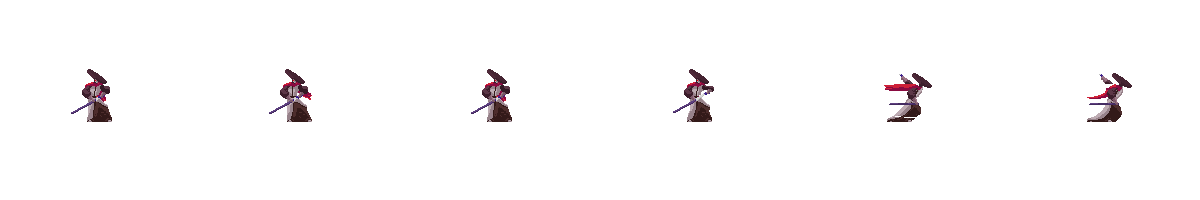
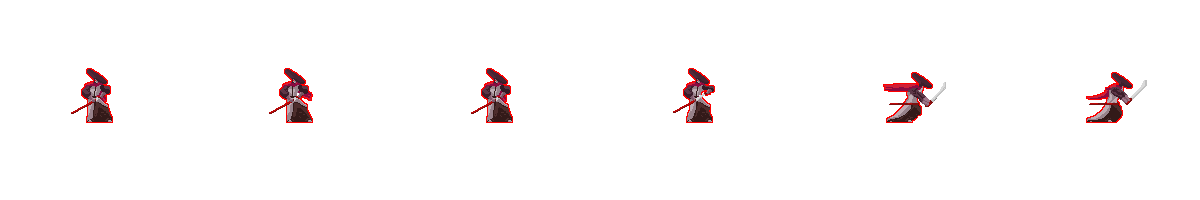
fixed blocking

diff --git a/public/main.js b/public/main.js
@@ -55,7 +55,10 @@ loadSprite("attack-player1", "assets/attack-player1.png", {
     sliceX: 6, sliceY: 1, anims: { "attack": { from: 1, to: 5, speed: 18}}
 });
 loadSprite("block-player1", "assets/block-player1.png", {
-    sliceX: 6, sliceY: 1, anims: { "block": { from: 1, to: 5, speed: 18}}
+    sliceX: 6, sliceY: 1, anims: { "block": { from: 1, to: 4, speed: 18}}
+});
+loadSprite("holdblock-player1", "assets/block-player1.png", {
+    sliceX: 6, sliceY: 1, anims: { "holdblock": { from: 4, to: 5, speed: 10, loop:true}}
 });
 loadSprite("run-player1", "assets/run-player1.png", {
     sliceX: 8, sliceY: 1, anims: { "run": { from: 0, to: 7, speed: 18}}
@@ -75,7 +78,10 @@ loadSprite("attack-player2", "assets/attack-player2.png", {
     sliceX: 6, sliceY: 1, anims: { "attack": { from: 1, to: 5, speed: 18}}
 });
 loadSprite("block-player2", "assets/block-player2.png", {
-    sliceX: 6, sliceY: 1, anims: { "block": { from: 1, to: 5, speed: 18}}
+    sliceX: 6, sliceY: 1, anims: { "block": { from: 1, to: 4, speed: 18}}
+});
+loadSprite("holdblock-player2", "assets/block-player2.png", {
+    sliceX: 6, sliceY: 1, anims: { "holdblock": { from: 4, to: 5, speed: 10, loop:true}}
 });
 loadSprite("run-player2", "assets/run-player2.png", {
     sliceX: 8, sliceY: 1, anims: { "run": { from: 0, to: 7, speed: 18}}
@@ -182,7 +188,7 @@ scene ("ready_up", () => {
     
     function getGameURL() {
         //CHANGE THIS IP
-        return fetch(`http://192.168.1.27/newgame`)
+        return fetch(`http://192.168.1.27:8080/newgame`)
         .then(response => response.ok ? response.json() : Promise.reject('Response not OK'))
         .then(data => {
             console.log("game id: " + data.url);
@@ -203,7 +209,7 @@ scene ("ready_up", () => {
             //let r_counter = 0;
             
             //CHANGE THIS IP
-            socket = io.connect(`http://192.168.1.27/`, {
+            socket = io.connect(`http://192.168.1.27:8080/`, {
                 withCredentials: true,
                 query: { game_id: game_id }
             });
@@ -425,6 +431,7 @@ scene("fight", () => {
                     idle: "idle-" + id,
                     jump: "jump-" + id,
                     block: "block-" + id,
+                    holdblock: "holdblock-" + id,
                     attack: "attack-" + id,
                     death: "death-" + id
                 }
@@ -466,8 +473,6 @@ scene("fight", () => {
             player2.flipX = true;
             //console.log("p1 on left, p2 on right");
         }
-
-        
 
         player1flip = player1.flipX;
         player2flip = player2.flipX;
@@ -582,12 +587,9 @@ scene("fight", () => {
                     console.log("p2 not attacking");
                     p2_is_attacking = false;
                 }
-            });
-               
+                });
             });
             
-                
-                
             player.play("attack", {
                 onEnd: () => {
                     
@@ -619,10 +621,18 @@ scene("fight", () => {
                     }); 
             player.play("block", {
                 onEnd: () => {
-                    resetPlayerToIdle(player);
-                    player.flipX = currentFlip;
-                }
-            }) 
+                    if (myPlayerNumber === 1 && p1_is_blocking) {
+                        player.use(sprite(player.sprites.holdblock))
+                        player.flipX = currentFlip;
+                        player.play("holdblock", {
+                            onEnd: () => {
+                                resetPlayerToIdle(player);
+                                player.flipX = currentFlip;
+                            }
+                        }); 
+                    }
+                } // wtf is this
+            }); 
         }
     }
 
@@ -643,7 +653,6 @@ scene("fight", () => {
     onKeyRelease("a", () => {
         socket.emit('release', { game_id: game_id, direction: 'left' });
     });
-
 
     // jump
     onKeyDown("w", () => {
@@ -667,7 +676,6 @@ scene("fight", () => {
         socket.emit('move', { game_id: game_id, direction: 'attack' });  
     });
     
-
    
     //state control
     socket.on('state', (data) => {
@@ -763,13 +771,13 @@ scene("fight", () => {
         }
         //block
         if (data.playerNumber === 1 && data.direction === 'block') {
-            if (!p1_is_attacking){
+            if (!p1_is_attacking && !p1_is_blocking){
                 block(player1);
                 console.log("player1 started blocking");
             }
         }
         if (data.playerNumber === 2 && data.direction === 'block') {
-            if (!p2_is_attacking){
+            if (!p2_is_attacking && !p2_is_blocking){
                 block(player2);
                 console.log("player2 started blocking");
             }
@@ -862,7 +870,6 @@ scene("fight", () => {
         wait (3 , () => {
             console.log(gamecounter);
             gamecounter+=1;
-            
             if (gamecounter > 2) {
                 go("end");
                 console.log("going back to start");
@@ -872,7 +879,7 @@ scene("fight", () => {
                 console.log(gamecounter);
                 go("fight");
             }
-        })
+        });
     }
 
     const countInterval = setInterval(() => {
@@ -918,25 +925,19 @@ scene("fight", () => {
     ]);
 
 
-
-
     player1.onCollide(player2.id + "attackHitbox", () => {
         if (gameOver) {
             return;
         }
         console.log("did p1 block: " + p1_is_blocking);
-        
         if (player1.health !== 0) {
             socket.emit('gamestate', { game_id: game_id, direction: 'p1l'});  
         }
-        
         if (player1.health === 0) {
             socket.emit('gamestate', { game_id: game_id, direction: 'p2win'});
         }
     });
 
-    
-    
     player2.onCollide(player1.id + "attackHitbox", () => {
         if (gameOver) {
             return;

diff --git a/index.js b/index.js
@@ -9,7 +9,7 @@ const cors = require('cors');
 // Setting up Socket.IO with CORS
 const io = require('socket.io')(server, {
     cors: {
-        origin: "http://192.168.1.27/*", // Make sure this matches your client origin
+    origin: "http://192.168.1.27:8080/*", // Make sure this matches your client origin
         methods: ["GET", "POST"],
         credentials: true
     }
@@ -36,7 +36,7 @@ app.get('/newgame', (req, res) => {
         availableGameId = uuidv4();
         games[availableGameId] = {};
     }
-    let gameUrl = `http://192.168.1.27/${availableGameId}`;
+    let gameUrl = `http://192.168.1.27:8080/${availableGameId}`;
     console.log("game sent: " + gameUrl);
     res.json({ url: gameUrl }); // Correctly send back the new or existing game ID
 });
@@ -126,6 +126,6 @@ function updatePlayerNumbers(game_id) {
     }
 }
 
-server.listen(80, () => {
+server.listen(8080, () => {
     console.log('Server is running on port 80');
 });
